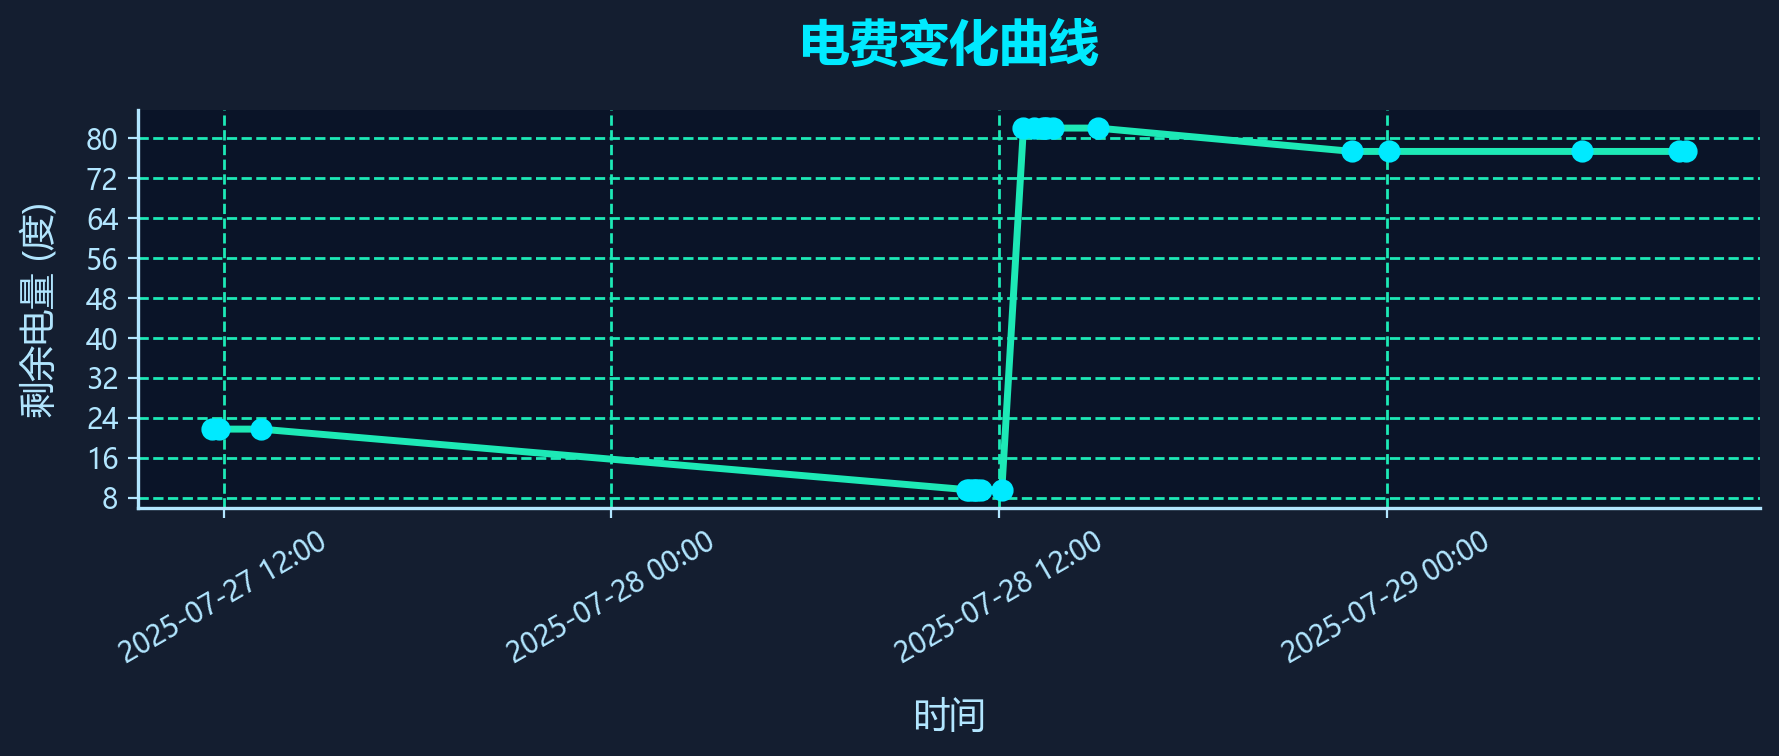
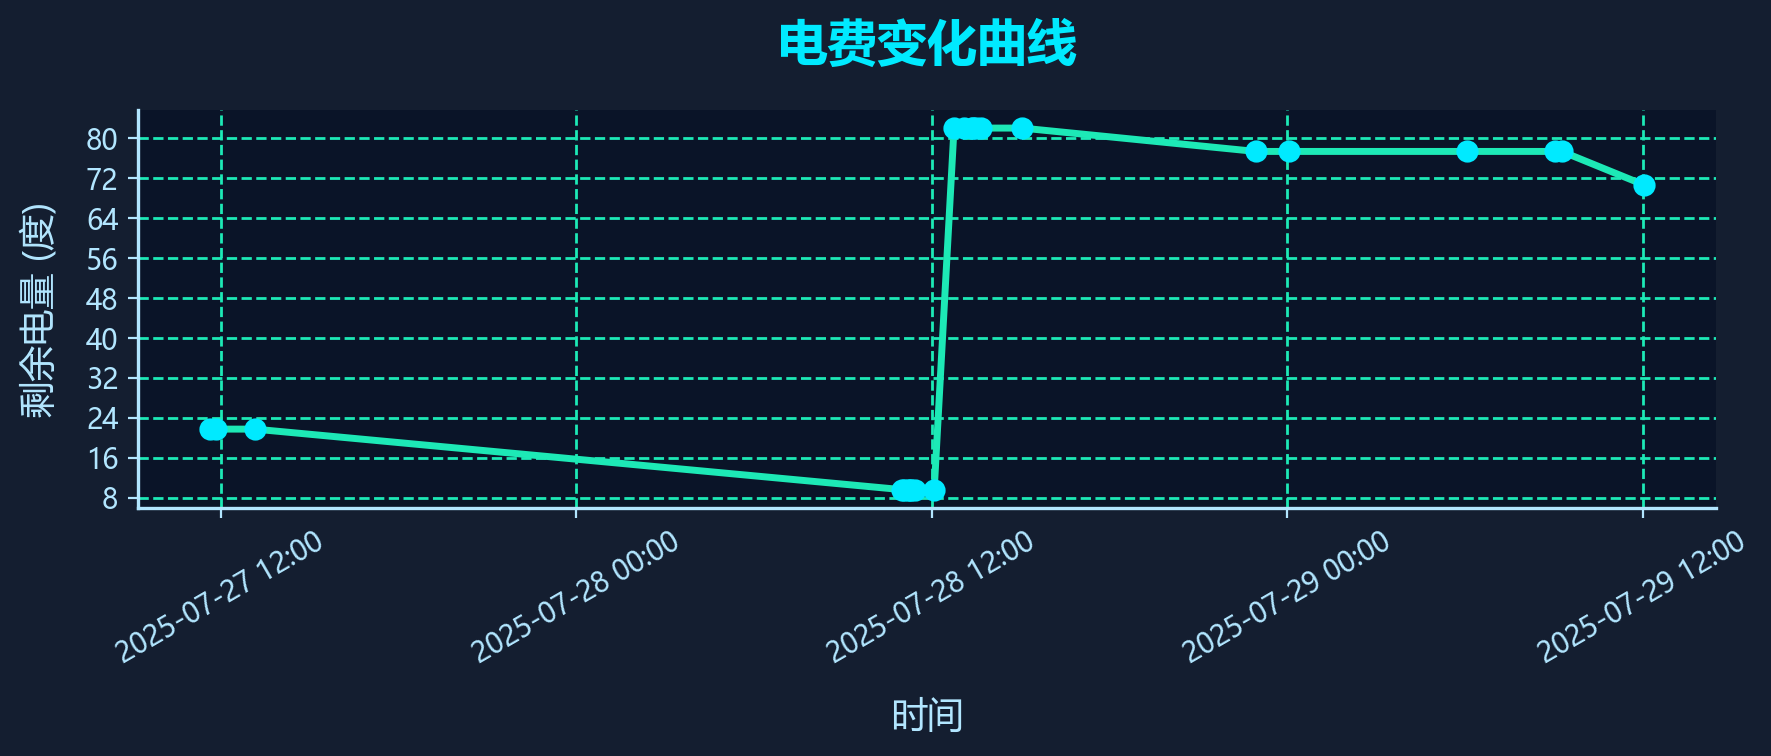
2025-07-29 12:03 自动提交电费变更

diff --git a/data/debug_page_source.html b/data/debug_page_source.html
@@ -2,7 +2,7 @@
     <meta http-equiv="Content-Type" content="text/html; charset=UTF-8">
     <meta http-equiv="X-UA-Compatible" content="IE=edge">
     <meta name="viewport" content="width=device-width, initial-scale=1, user-scalable=no">
-    <meta name="_csrf" content="f6b1585a-84b7-4344-b702-5eb654707edb">
+    <meta name="_csrf" content="8de3ff0f-919f-4dc9-817d-fcaafe048374">
     <meta name="_csrf_header" content="X-CSRF-TOKEN">
     <link type="image/png" href="/epay/images/nju/icon.png" rel="shortcut icon">
     <link type="text/css" rel="stylesheet" href="/epay/css/wxpage/weui.min.css">
@@ -32,7 +32,7 @@
 
 
 <body>
-<div id="app"><div class="centent"><div class="top"><div class="clearfix"><span class="fl">持卡人姓名：<i>吴相民</i></span></div> <div class="clearfix"><span class="fl">校园卡余额：<i class="green">85.17元</i></span></div></div> <div class="line"></div> <div class="cont"><div class="clearfix"><span class="fl">缴费地址：<i>仙林校区 18幢 18栋第4层422</i></span></div> <div class="clearfix"><span class="fl">剩余电量：<i>77.38度</i><em></em></span></div> <!----> <!----></div> <div class="num clearfix"><div style="display: flex; flex-wrap: wrap;"><span class="active">10元</span><span class="">20元</span><span class="">50元</span><span class="">100元</span><span class="">200元</span><span class="">自定义</span></div></div> <div class="inputbox" style="display: none;"><input type="text" placeholder="请输入充值金额" pattern="[0-9]*" maxlength="4" id="amount"></div> <div class="footer">充值</div> <div class="desc">充值时间：每天00:05-23:55</div> <div class="wapat"><div class="wapat-inner"><div class="wapat-title">错误！</div> <div class="wapat-btn-box"><div class="wapat-btn wapat-btn-ok">确定</div></div></div></div></div></div>
+<div id="app"><div class="centent"><div class="top"><div class="clearfix"><span class="fl">持卡人姓名：<i>吴相民</i></span></div> <div class="clearfix"><span class="fl">校园卡余额：<i class="green">85.17元</i></span></div></div> <div class="line"></div> <div class="cont"><div class="clearfix"><span class="fl">缴费地址：<i>仙林校区 18幢 18栋第4层422</i></span></div> <div class="clearfix"><span class="fl">剩余电量：<i>70.65度</i><em></em></span></div> <!----> <!----></div> <div class="num clearfix"><div style="display: flex; flex-wrap: wrap;"><span class="active">10元</span><span class="">20元</span><span class="">50元</span><span class="">100元</span><span class="">200元</span><span class="">自定义</span></div></div> <div class="inputbox" style="display: none;"><input type="text" placeholder="请输入充值金额" pattern="[0-9]*" maxlength="4" id="amount"></div> <div class="footer">充值</div> <div class="desc">充值时间：每天00:05-23:55</div> <div class="wapat"><div class="wapat-inner"><div class="wapat-title">错误！</div> <div class="wapat-btn-box"><div class="wapat-btn wapat-btn-ok">确定</div></div></div></div></div></div>
 
 
 
